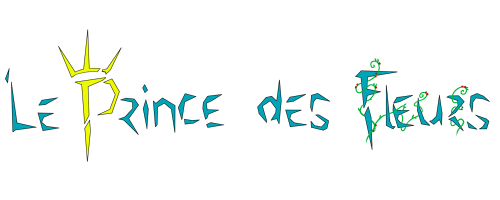
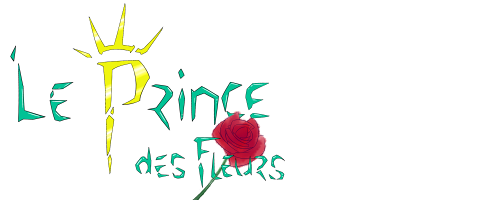
titre maj

diff --git a/src/Controllers/ChoixController.py b/src/Controllers/ChoixController.py
@@ -19,6 +19,7 @@ class ChoixController:
         self.myFont = pygame.font.SysFont('arial',38)
         self.message=self.myFont.render("",True,white)
         self.score=0
+        self.titre=pygame.image.load("../images/titre.png").convert_alpha()
         self.fortgroud = pygame.image.load('../images/menu.png').convert_alpha()
         choix  = self.myFont.render("Choisissez votre niveau : ",True,[135,206,235])
         niv1 = self.myFont.render("Niveau 1",True,[135,206,235])
@@ -49,6 +50,7 @@ class ChoixController:
         self.message8=self.myFont.render(self.message8,True,white)
         while True:
             self.screen.blit(self.background,(0,0))
+            self.screen.blit(self.titre,(0,0))
             if i<=30:
                 screen.blit(self.fortgroud, (400,130-i))
             else:

diff --git a/src/Controllers/MenuController.py b/src/Controllers/MenuController.py
@@ -49,7 +49,6 @@ class MenuController:
                     if button_rect_start.collidepoint(event.pos):#event to be changed
                         pygame.mixer.music.stop()
                         choixController=ChoixController(screen)
-                        self.score = ScoreController(choixController.score)
                     if button_rect_scores.collidepoint(event.pos):#event to be changed
                         self.score = ScoreController(None,self.screen)
                     if button_rect_credits.collidepoint(event.pos):#event to be changed
